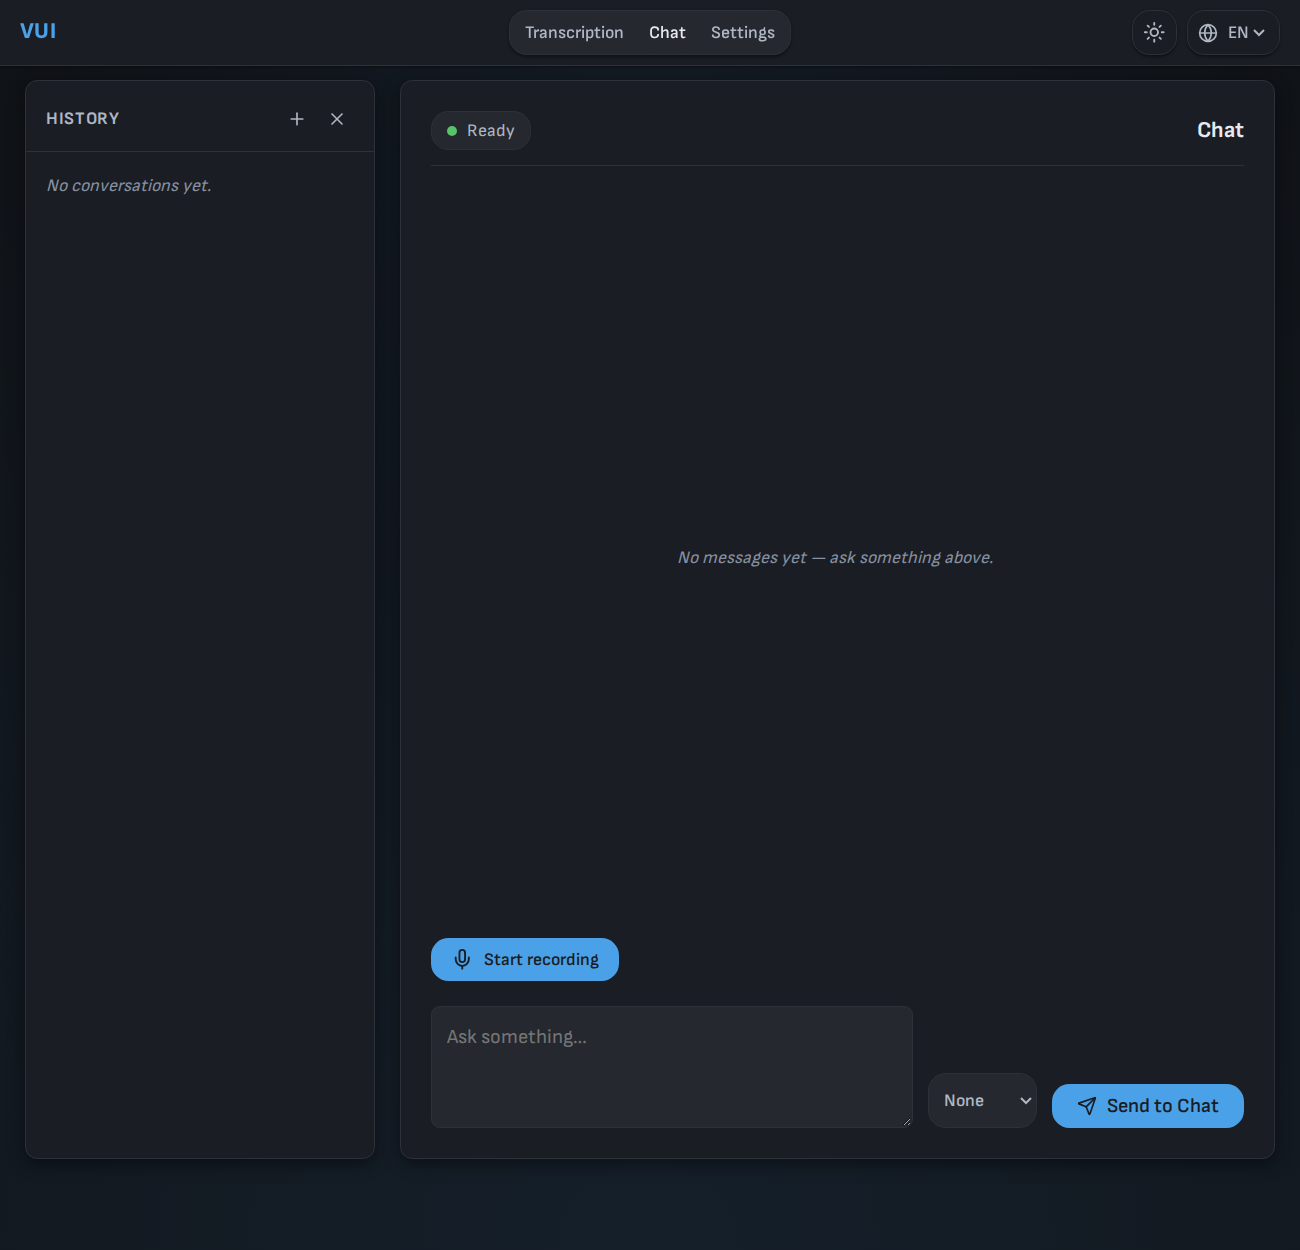
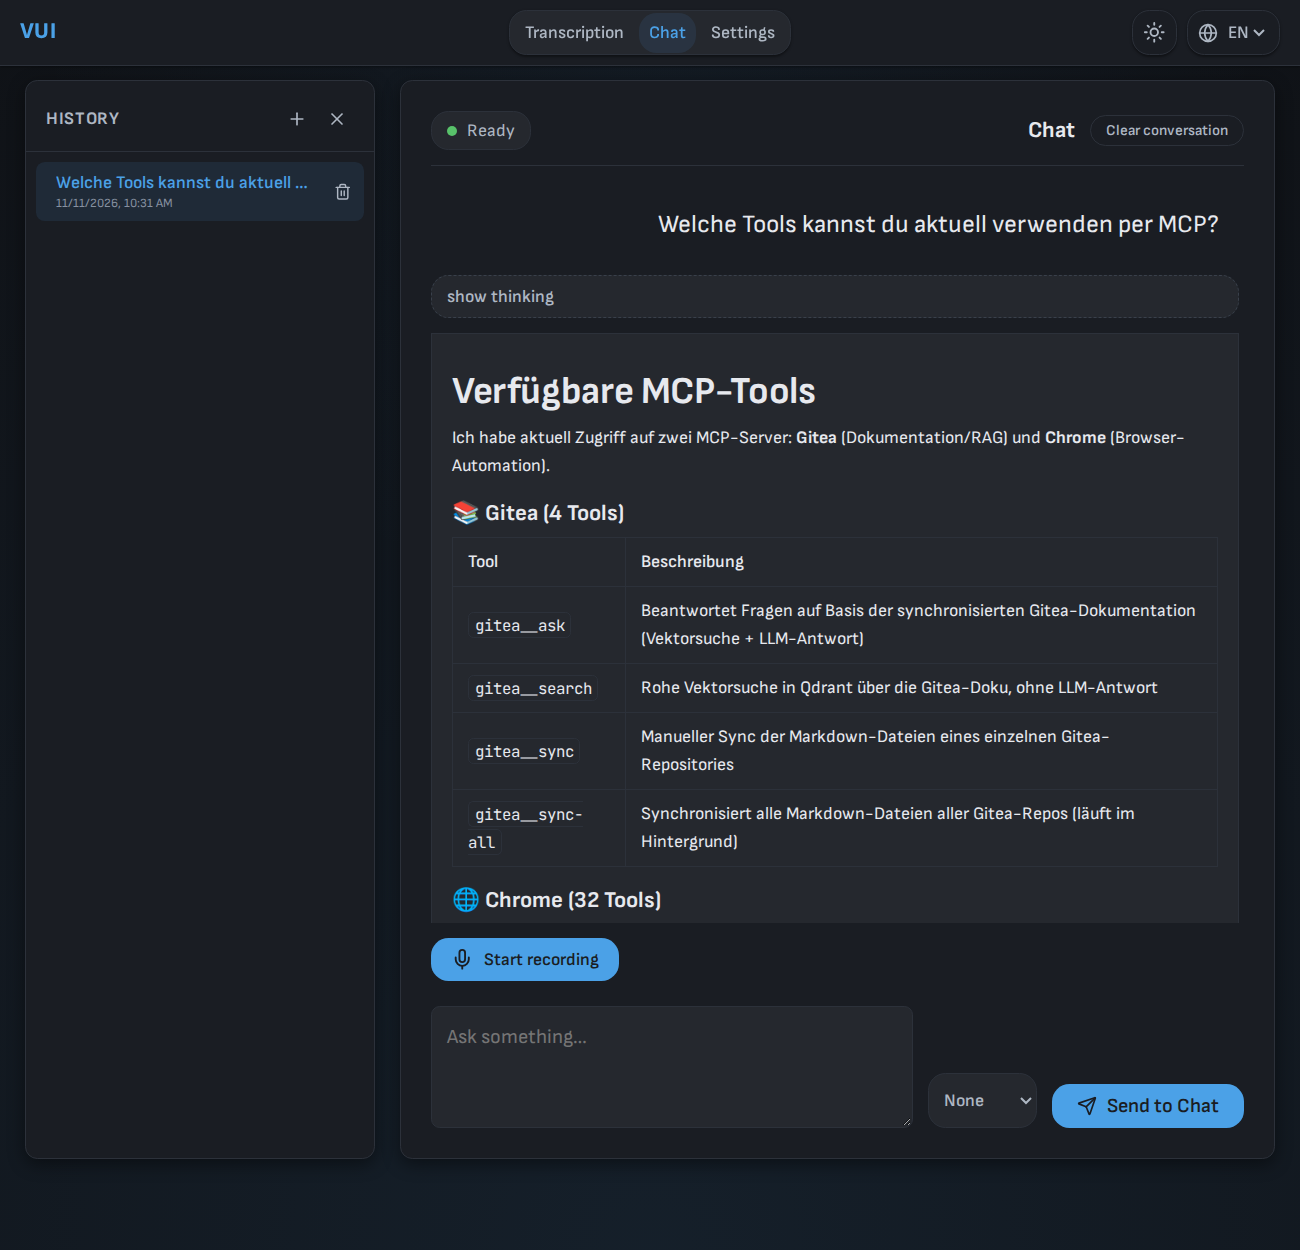
Capture chat screenshot with MCP tools question and answer

diff --git a/.docs/shot.js b/.docs/shot.js
@@ -61,9 +61,41 @@ async function shot(page, file) {
     await page.waitForTimeout(900);
     await shot(page, path.join(OUT, `transcription-${theme}.png`));
 
-    // 2) Chat screen via the top-right toggle ("Chat" label is locale-stable)
+    // 2) Chat screen: ask about MCP tools, wait for the answer, then screenshot
     await page.locator('.topnav__link', { hasText: 'Chat' }).click({ timeout: 15000 });
     await page.locator('.topnav__link--active', { hasText: 'Chat' }).waitFor({ timeout: 15000 });
+
+    const chatTextarea = page.locator('.chat-input__textarea');
+    await chatTextarea.waitFor({ timeout: 15000 });
+    await chatTextarea.fill('Welche Tools kannst du aktuell verwenden per MCP?');
+
+    const sendBtn = page.locator('.chat-input .btn--primary');
+    await sendBtn.click({ timeout: 15000 });
+
+    // While streaming, the send button is replaced by the stop button;
+    // when the stream finishes, the send button is back in the DOM.
+    await page.locator('.chat-input .btn--stop').waitFor({ timeout: 30000 });
+    await sendBtn.waitFor({ timeout: 120000 });
+
+    // The answer must be rendered (non-empty assistant bubble).
+    await page.waitForFunction(
+      () => {
+        const bubbles = document.querySelectorAll('.msg--assistant .msg__bubble');
+        const last = bubbles[bubbles.length - 1];
+        return last && last.textContent.trim().length > 0;
+      },
+      null,
+      { timeout: 30000 }
+    );
+
+    // Scroll the chat view back to the top (it auto-follows the stream to the bottom).
+    await page.evaluate(() => {
+      const el = document.querySelector('.chat-view');
+      if (el) {
+        el.style.scrollBehavior = 'auto';
+        el.scrollTop = 0;
+      }
+    });
     await page.waitForTimeout(900);
     await shot(page, path.join(OUT, `chat-${theme}.png`));
 
